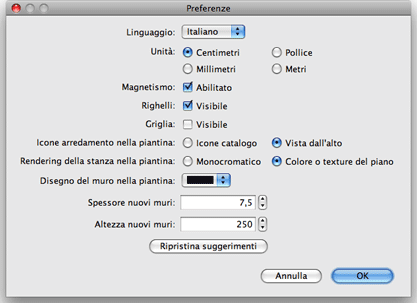
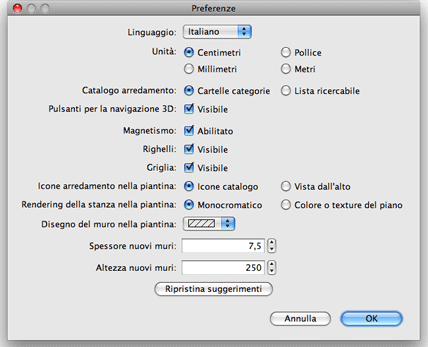
Updated translation for version 2.3 by Simone Bufalino
git-svn-id: https://svn.code.sf.net/p/sweethome3d/code/trunk@2437 03e323e1-6c6c-46a5-9f71-c4ce5d8c6204

Changed region(s): [[0.0, 0.0, 0.9976, 0.9802], [0.6547, 0.4455, 0.9353, 0.6238], [0.6547, 0.1188, 0.8417, 0.297]]

diff --git a/SweetHome3D/src/com/eteks/sweethome3d/viewcontroller/resources/help/it/editingFurniture.html b/SweetHome3D/src/com/eteks/sweethome3d/viewcontroller/resources/help/it/editingFurniture.html
@@ -120,7 +120,8 @@
 				mediante il suo pannello, facendo doppio click su questo pezzo
 				nella piantina o nella lista arredamento, o scegliendo
 				<I>Arredamento &gt; Modifica...</I> dopo averlo selezionato.</P>
-				<P ALIGN=CENTER><IMG SRC="images/editingFurniture.png" ALT="Modify furniture" ALIGN=BOTTOM WIDTH=403 HEIGHT=215 BORDER=0></P>
+				
+        <P ALIGN=CENTER><IMG SRC="images/editingFurniture.png" ALT="Modify furniture" ALIGN=BOTTOM WIDTH=410 HEIGHT=234 BORDER=0></P>
 				<P>Nel pannello arredamento, puoi cambiare il suo nome, l'ascissa
 				(X) e l'ordinata (Y) del suo centro, l'elevazione del suo fondo
 				dal pavimento, la sua larghezza, la sua profondità e la sua

diff --git a/SweetHome3D/src/com/eteks/sweethome3d/viewcontroller/resources/help/it/editingPreferences.html b/SweetHome3D/src/com/eteks/sweethome3d/viewcontroller/resources/help/it/editingPreferences.html
@@ -32,7 +32,8 @@
 				<P>Per modificare le preferenze di Sweet Home 3D, scegli <I>Sweet
 				Home 3D &gt; Preferenze...</I> sotto Mac OS X oppure <I>File &gt;
 				Preferenze...</I> sotto altri sistemi operativi.</P>
-				<P ALIGN=CENTER><IMG SRC="images/editingPreferences.png" ALIGN=BOTTOM WIDTH=417 HEIGHT=303 BORDER=0></P>
+				
+        <P ALIGN=CENTER><IMG SRC="images/editingPreferences.png" ALIGN=BOTTOM WIDTH=428 HEIGHT=347 BORDER=0></P>
 				<P>Nel pannello preferenze, puoi scegliere il <I>Linguaggio</I>
 				usato per l'interfaccia utente di Sweet Home 3D e l'<I>Unità di
 				misura</I> usata per disegnare i righelli e la griglia della
